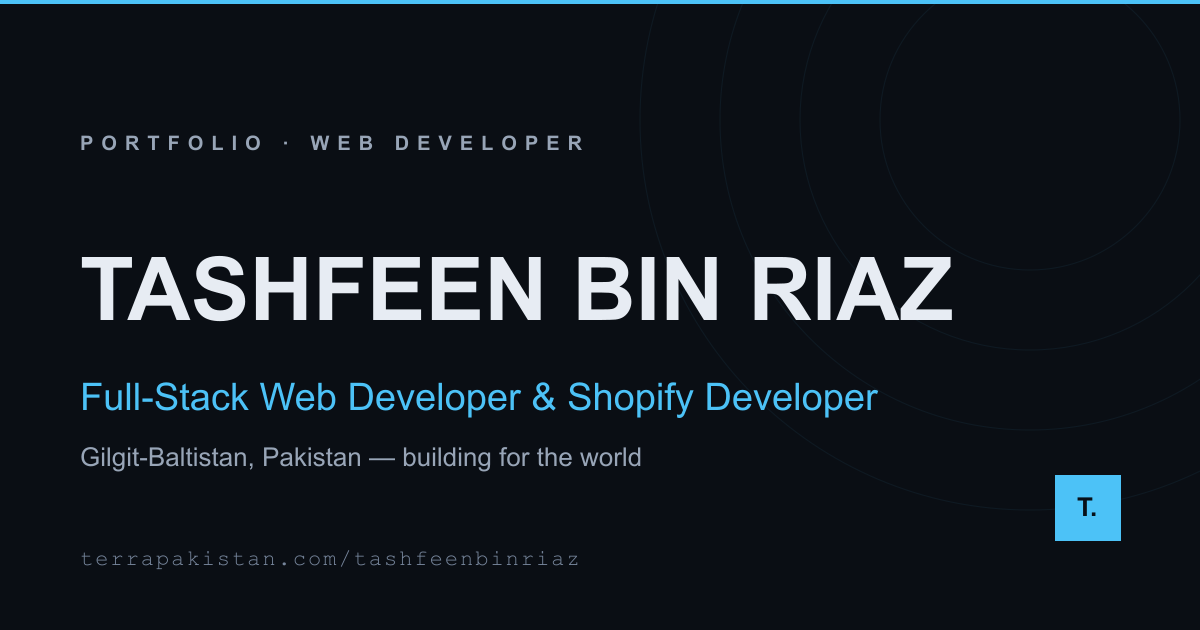
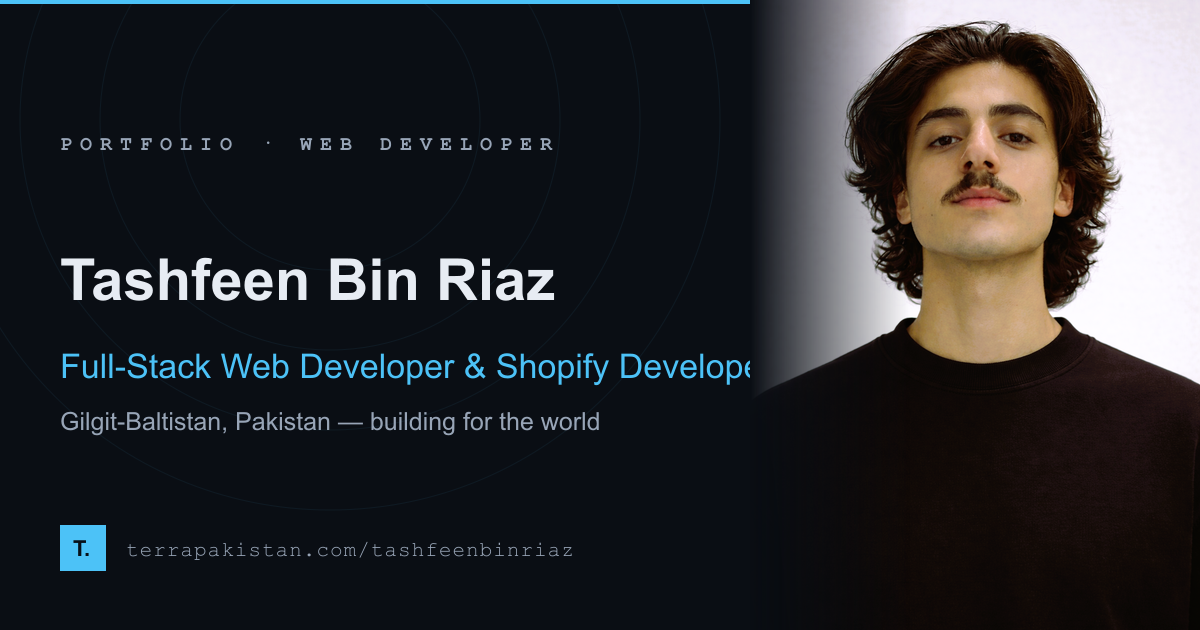
add live project links and portrait OG image to portfolio

diff --git a/src/app/tashfeenbinriaz/page.tsx b/src/app/tashfeenbinriaz/page.tsx
@@ -133,6 +133,7 @@ const projectsJsonLd = {
       item: {
         "@type": "CreativeWork",
         name: "Gilgit Adventure Treks",
+        url: "https://gilgitadventuretreks.com/",
         description:
           "Tourism website for travel experiences in Gilgit-Baltistan and Northern Pakistan, with tour presentation, admin functionality, and AI chatbot integration.",
       },
@@ -143,6 +144,7 @@ const projectsJsonLd = {
       item: {
         "@type": "CreativeWork",
         name: "MAS Corporates",
+        url: "https://mascorporates.com/",
         description:
           "Professional corporate business website with a modern UI, responsive development, and reliable deployment.",
       },

diff --git a/src/components/portfolio/data.ts b/src/components/portfolio/data.ts
@@ -147,7 +147,7 @@ export const projects = [
       year: "2024",
       services: "Web Design · Development · Admin Panel",
     },
-    url: "#",
+    url: "https://gilgitadventuretreks.com/",
   },
   {
     index: "02",
@@ -169,7 +169,7 @@ export const projects = [
       year: "2025",
       services: "UI Development · Responsive Build · Deployment",
     },
-    url: "#",
+    url: "https://mascorporates.com/",
   },
   {
     index: "03",

diff --git a/src/components/portfolio/Projects.tsx b/src/components/portfolio/Projects.tsx
@@ -82,6 +82,19 @@ function ProjectLink({ url, label }: { url: string; label: string }) {
     );
   }
 
+  if (/^https?:\/\//.test(url)) {
+    return (
+      <a
+        href={url}
+        target="_blank"
+        rel="noopener noreferrer"
+        className="tp-link inline-flex items-center gap-1.5 text-sm font-medium"
+      >
+        {inner}
+      </a>
+    );
+  }
+
   return null;
 }
 
